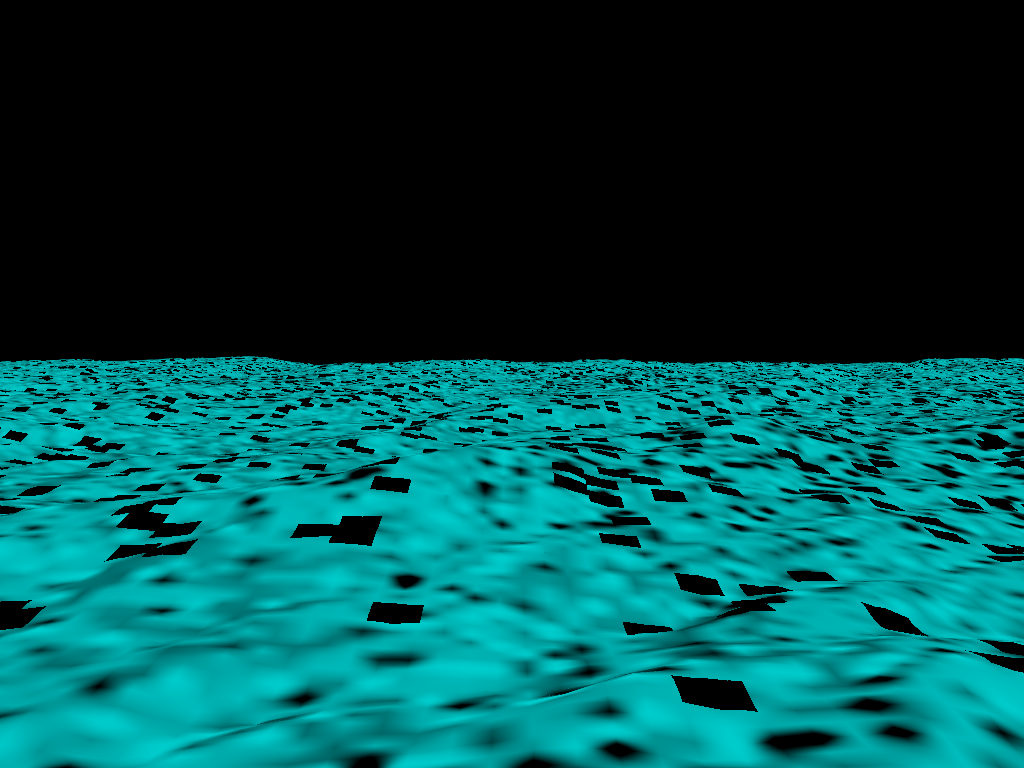
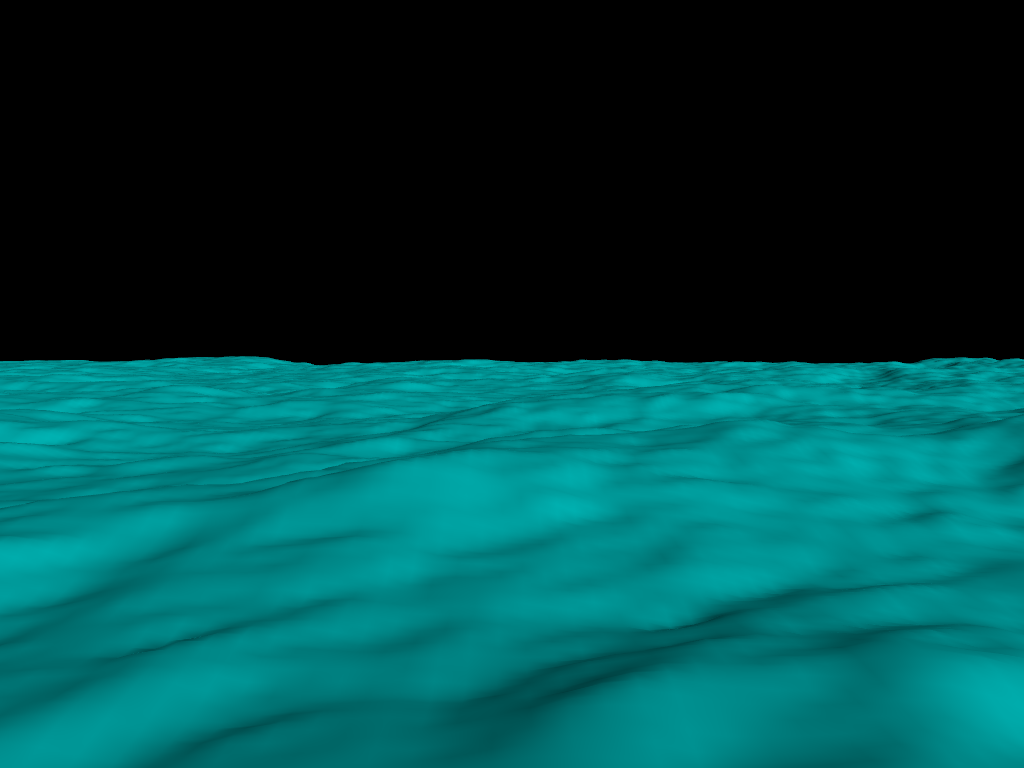
Fixed example 41

diff --git a/README.md b/README.md
@@ -224,8 +224,6 @@ All 45 examples demonstrate various OpenGL 3.x and 4.x features with GLSL shader
 
 ![Example41](screenshots/Example41.png)
 
-*Note: Visual artifacts may be visible due to hardware-specific compute shader limitations (not yet fixed)*
-
 ### Example42 - Fast Approximate Anti Aliasing - FXAA (OpenGL 4.3)
 
 ![Example42](screenshots/Example42.png)
